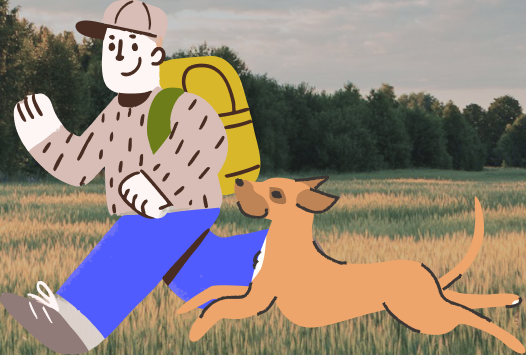
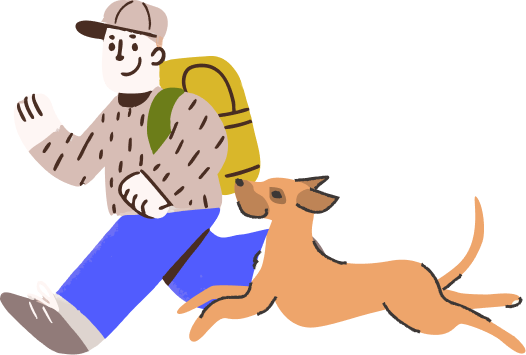
fix(landing): rebuild hero from real components on top of landscape
The previous hero relied on a baked-in Figma export (full-frame screenshot
of node 161:1092) layered behind a duplicate set of HTML controls, so
the page rendered every UI element twice — once in the image, once in
markup. The user flagged this as 'illustrations should sit on top of
the background, this isn't close to the design'.

This commit reconstructs the hero the same way the Figma file is
authored:

  Layer 1: header-bg.png       — landscape photograph (sky + field)
  Layer 2: HTML top bar        — Borkd circle logo · nav pill · CTA
  Layer 3: HTML headline       — "Find places that *actually work*…"
  Layer 4: hero-illustration   — man + jojo, transparent background
  Layer 5: HTML store buttons  — Google Play · App Store

The landscape PNG that Figma exports is portrait (617×1024); covering
a 1024:611 hero crops it tightly, so we anchor the photo at
`object-position: center 70%` to keep the tree line and field
prominent and add a soft cream wash near the top to keep the warm Bark
headline legible against the busy treeline. A second wash near the
bottom blends into the cream Quote section that follows.

Image cache: re-pulled hero-illustration.png with `contentsOnly: true`
so it ships transparent (39KB) instead of with the field baked in
(242KB). Fixed the Google Play button label so the text renders
forwards instead of mirrored.

Other tweaks:
  • QuoteSection: girl-at-cafe overlay wrapped in a percent-positioned
[…]

diff --git a/components/landing/SiteHeader.tsx b/components/landing/SiteHeader.tsx
@@ -1,62 +1,88 @@
 import Image from "next/image";
 
 /**
- * Top-of-page hero — 859px tall on desktop, fluid on mobile.
- * Background photo behind a Borkd logo, nav pill, CTA, hero copy,
- * and the man + jojo illustration with app store buttons.
+ * Top-of-page hero. Built from real components on top of a single
+ * landscape photograph — exactly the layering the Figma file uses:
+ *
+ *   Layer 1: header-bg.png (sky + field)        ← background
+ *   Layer 2: HTML controls (logo, nav pill, CTA) ← top bar
+ *   Layer 3: HTML headline                       ← centered text
+ *   Layer 4: hero-illustration.png (man + jojo)  ← above the field
+ *   Layer 5: HTML store buttons                  ← bottom CTAs
+ *
+ * The illustration PNG is exported from Figma with a transparent
+ * background (no baked-in field) so it sits naturally on top of
+ * whatever sits behind it.
  */
 export function SiteHeader() {
   return (
-    <header className="relative isolate w-full overflow-hidden">
-      <div className="relative h-[640px] w-full sm:h-[859px]">
-        {/* Background — landscape photo */}
+    <header className="relative isolate w-full overflow-hidden bg-background-brand">
+      <div
+        className="relative w-full"
+        style={{ aspectRatio: "1024 / 611" }}
+      >
+        {/* Layer 1 — landscape photo. The Figma source is portrait
+            (617×1024), so covering a 1.676:1 frame zooms the field in.
+            Anchoring near the top keeps sky + tree line visible while
+            the cream wash below blends the bottom into section 2. */}
         <Image
           src="/images/header-bg.png"
           alt=""
           fill
           priority
           sizes="100vw"
-          className="object-cover object-bottom"
+          className="object-cover object-[center_70%]"
+        />
+        {/* A soft cream wash near the top so the warm Bark headline
+            stays legible against the busy tree line behind it. */}
+        <div
+          aria-hidden
+          className="absolute inset-x-0 top-0 h-[40%] bg-gradient-to-b from-cloud-50/70 via-cloud-50/35 to-transparent"
+        />
+        {/* Bottom blend into the cream section that follows. */}
+        <div
+          aria-hidden
+          className="absolute inset-x-0 bottom-0 h-[25%] bg-gradient-to-b from-transparent to-background-brand"
         />
 
-        {/* Top bar — logo · nav · CTA */}
-        <div className="absolute inset-x-0 top-0 z-10 px-6 pt-[40px] sm:px-12 sm:pt-[61px]">
-          <div className="mx-auto flex max-w-[1440px] items-center justify-between">
+        {/* Layer 2 — top bar */}
+        <div className="absolute inset-x-0 top-0 z-20 px-6 pt-6 sm:px-12 sm:pt-10">
+          <div className="mx-auto flex max-w-[1440px] items-center justify-between gap-4">
             <Logo />
             <NavPill className="hidden md:flex" />
             <DownloadCta />
           </div>
         </div>
 
-        {/* Hero block — headline · illustration · store buttons */}
-        <div className="absolute inset-0 z-0 flex flex-col items-center justify-start px-6 pt-[120px] sm:pt-[143px]">
+        {/* Layer 3 — headline (centered) */}
+        <div className="absolute inset-x-0 top-[14%] z-10 flex justify-center px-6">
           <h1
-            className="max-w-[978px] text-center font-sans text-[40px] leading-tight tracking-tight text-bark-600 sm:text-[56px] md:text-[67px]"
+            className="max-w-[978px] text-center text-[32px] leading-tight tracking-tight text-bark-600 sm:text-[48px] md:text-[60px] lg:text-[67px]"
             style={{ fontVariationSettings: "'opsz' 14" }}
           >
             Find places that{" "}
-            <em className="font-display not-italic-fallback italic">
-              actually work
-            </em>{" "}
-            for you and your pup
+            <em className="font-display italic">actually work</em> for you
+            and your pup
           </h1>
+        </div>
 
-          <div className="mt-8 sm:mt-[32px]">
-            <Image
-              src="/images/hero-illustration.png"
-              alt="A person walking with their dog jojo"
-              width={526}
-              height={355}
-              priority
-              sizes="(max-width: 640px) 320px, 526px"
-              className="h-auto w-[320px] sm:w-[420px] md:w-[526px]"
-            />
-          </div>
+        {/* Layer 4 — man + jojo illustration */}
+        <div className="absolute inset-x-0 top-[42%] z-10 flex justify-center px-6">
+          <Image
+            src="/images/hero-illustration.png"
+            alt="A person walking with their dog jojo"
+            width={526}
+            height={355}
+            priority
+            sizes="(max-width: 640px) 280px, (max-width: 1024px) 420px, 526px"
+            className="h-auto w-[280px] sm:w-[360px] md:w-[460px] lg:w-[526px]"
+          />
+        </div>
 
-          <div className="mt-6 flex gap-3">
-            <StoreButton variant="play" />
-            <StoreButton variant="apple" />
-          </div>
+        {/* Layer 5 — store buttons */}
+        <div className="absolute inset-x-0 bottom-[6%] z-10 flex justify-center gap-3">
+          <StoreButton variant="play" />
+          <StoreButton variant="apple" />
         </div>
       </div>
     </header>
@@ -68,7 +94,7 @@ function Logo() {
     <a
       href="#top"
       aria-label="Borkd"
-      className="grid h-[57px] w-[57px] place-items-center rounded-full bg-background-accent"
+      className="grid h-[57px] w-[57px] shrink-0 place-items-center rounded-full bg-background-accent shadow-md transition-opacity hover:opacity-90"
     >
       <Image
         src="/images/illustration/vector6-logo.svg"
@@ -90,9 +116,9 @@ function NavPill({ className = "" }: { className?: string }) {
   return (
     <nav
       aria-label="Primary"
-      className={`items-center gap-4 rounded-full bg-background-secondary px-6 py-3 ${className}`}
+      className={`items-center rounded-full bg-black/30 px-6 py-3 backdrop-blur-sm ${className}`}
     >
-      <ul className="flex items-center gap-4 text-[20px] tracking-tight text-content-contrast">
+      <ul className="flex items-center gap-6 text-[18px] tracking-tight text-white">
         {items.map(({ label, href }) => (
           <li key={label}>
             <a href={href} className="transition-opacity hover:opacity-80">
@@ -109,60 +135,45 @@ function DownloadCta() {
   return (
     <a
       href="#download"
-      className="inline-flex h-[48px] items-center gap-2 rounded-full bg-background-accent px-4 text-[20px] tracking-tight text-content-contrast transition-opacity hover:opacity-90"
+      className="inline-flex h-[48px] shrink-0 items-center rounded-full bg-background-accent px-5 text-content-contrast shadow-md transition-opacity hover:opacity-90"
     >
-      <em className="font-display italic">Download now</em>
+      <em className="font-display text-[20px] italic tracking-tight">
+        Download now
+      </em>
     </a>
   );
 }
 
 function StoreButton({ variant }: { variant: "play" | "apple" }) {
-  if (variant === "play") {
-    return (
-      <a
-        href="#play"
-        aria-label="Get it on Google Play"
-        className="flex h-[50px] w-[151px] items-center gap-2 overflow-hidden rounded-md border border-[#a6a6a6] bg-black px-2.5"
-      >
-        <Image
-          src="/images/store/playstore-icon.svg"
-          alt=""
-          width={26}
-          height={30}
-          className="h-[30px] w-[26px]"
-        />
-        <div className="flex flex-col gap-0.5">
-          <span className="font-mono text-[10px] uppercase text-white">
-            Get it on
-          </span>
-          <Image
-            src="/images/store/playstore-text.svg"
-            alt="Google Play"
-            width={93}
-            height={19}
-            className="h-[19px] w-[93px]"
-          />
-        </div>
-      </a>
-    );
-  }
+  const iconSrc =
+    variant === "play"
+      ? "/images/store/playstore-icon.svg"
+      : "/images/store/apple-icon.svg";
+  const eyebrow = variant === "play" ? "Get it on" : "Download on the";
+  const main = variant === "play" ? "Google Play" : "App Store";
+  const aria =
+    variant === "play"
+      ? "Get it on Google Play"
+      : "Download on the App Store";
+  const href = variant === "play" ? "#play" : "#apple";
+
   return (
     <a
-      href="#apple"
-      aria-label="Download on the App Store"
-      className="flex h-[50px] w-[151px] items-center gap-2 overflow-hidden rounded-md border border-[#a6a6a6] bg-black px-2.5"
+      href={href}
+      aria-label={aria}
+      className="flex h-[50px] w-[151px] items-center gap-2 overflow-hidden rounded-md border border-[#a6a6a6] bg-black px-2.5 transition-opacity hover:opacity-90"
     >
       <Image
-        src="/images/store/apple-icon.svg"
+        src={iconSrc}
         alt=""
-        width={25}
+        width={variant === "play" ? 26 : 25}
         height={30}
-        className="h-[30px] w-[25px]"
+        className="h-[26px] w-auto shrink-0"
       />
-      <div className="flex flex-col text-white">
-        <span className="text-[11px] leading-tight">Download on the</span>
-        <span className="text-[20px] font-medium leading-tight tracking-tight">
-          App Store
+      <div className="flex min-w-0 flex-col text-white">
+        <span className="text-[10px] leading-tight">{eyebrow}</span>
+        <span className="truncate text-[18px] font-medium leading-tight tracking-tight">
+          {main}
         </span>
       </div>
     </a>

diff --git a/components/landing/QuoteSection.tsx b/components/landing/QuoteSection.tsx
@@ -12,7 +12,7 @@ export function QuoteSection() {
     >
       <div className="mx-auto flex max-w-[1205px] flex-col items-center gap-12 md:flex-row md:gap-[80px]">
         {/* Instagram post composite */}
-        <div className="relative aspect-[516/833] w-full max-w-[516px] overflow-hidden rounded-2xl bg-cloud-500">
+        <div className="relative aspect-[516/833] w-full max-w-[516px] shrink-0 overflow-hidden rounded-2xl bg-cloud-500">
           <Image
             src="/images/instagram-post.png"
             alt=""
@@ -20,13 +20,16 @@ export function QuoteSection() {
             sizes="(max-width: 768px) 100vw, 516px"
             className="object-cover"
           />
-          <Image
-            src="/images/girl-at-cafe.png"
-            alt="A woman at a café with her dog"
-            width={297}
-            height={315}
-            className="absolute bottom-[8%] left-[10%] h-auto w-[60%] max-w-[297px]"
-          />
+          <div className="absolute bottom-[5%] left-[8%] w-[58%]">
+            <Image
+              src="/images/girl-at-cafe.png"
+              alt="A woman at a café with her dog"
+              width={297}
+              height={315}
+              sizes="(max-width: 768px) 50vw, 297px"
+              className="h-auto w-full"
+            />
+          </div>
         </div>
 
         {/* Quote + body */}
